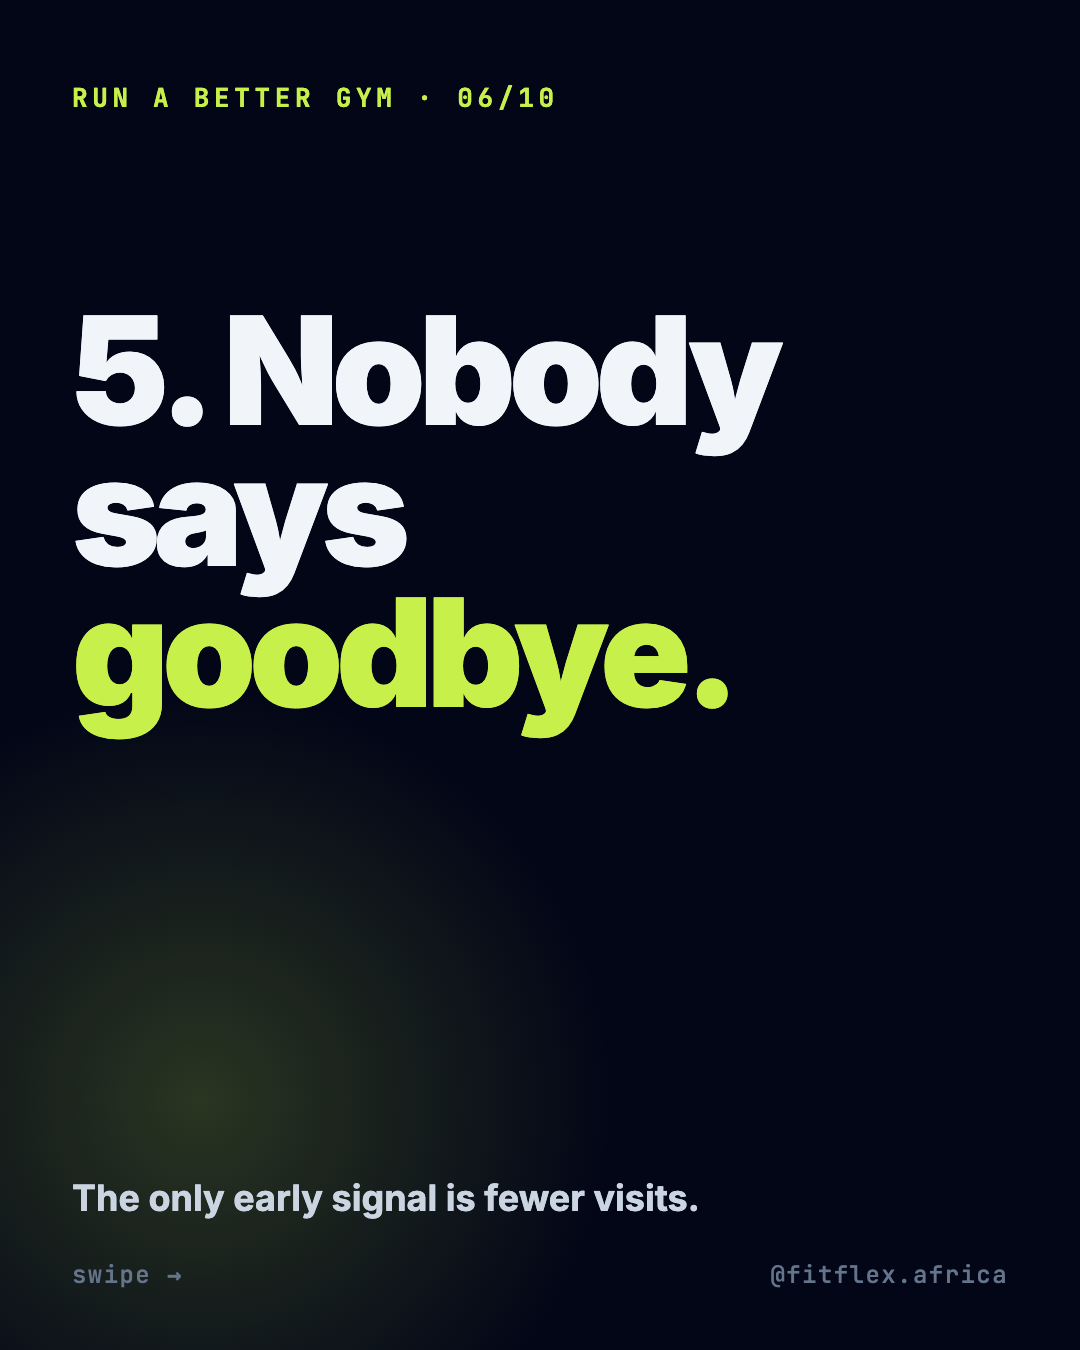
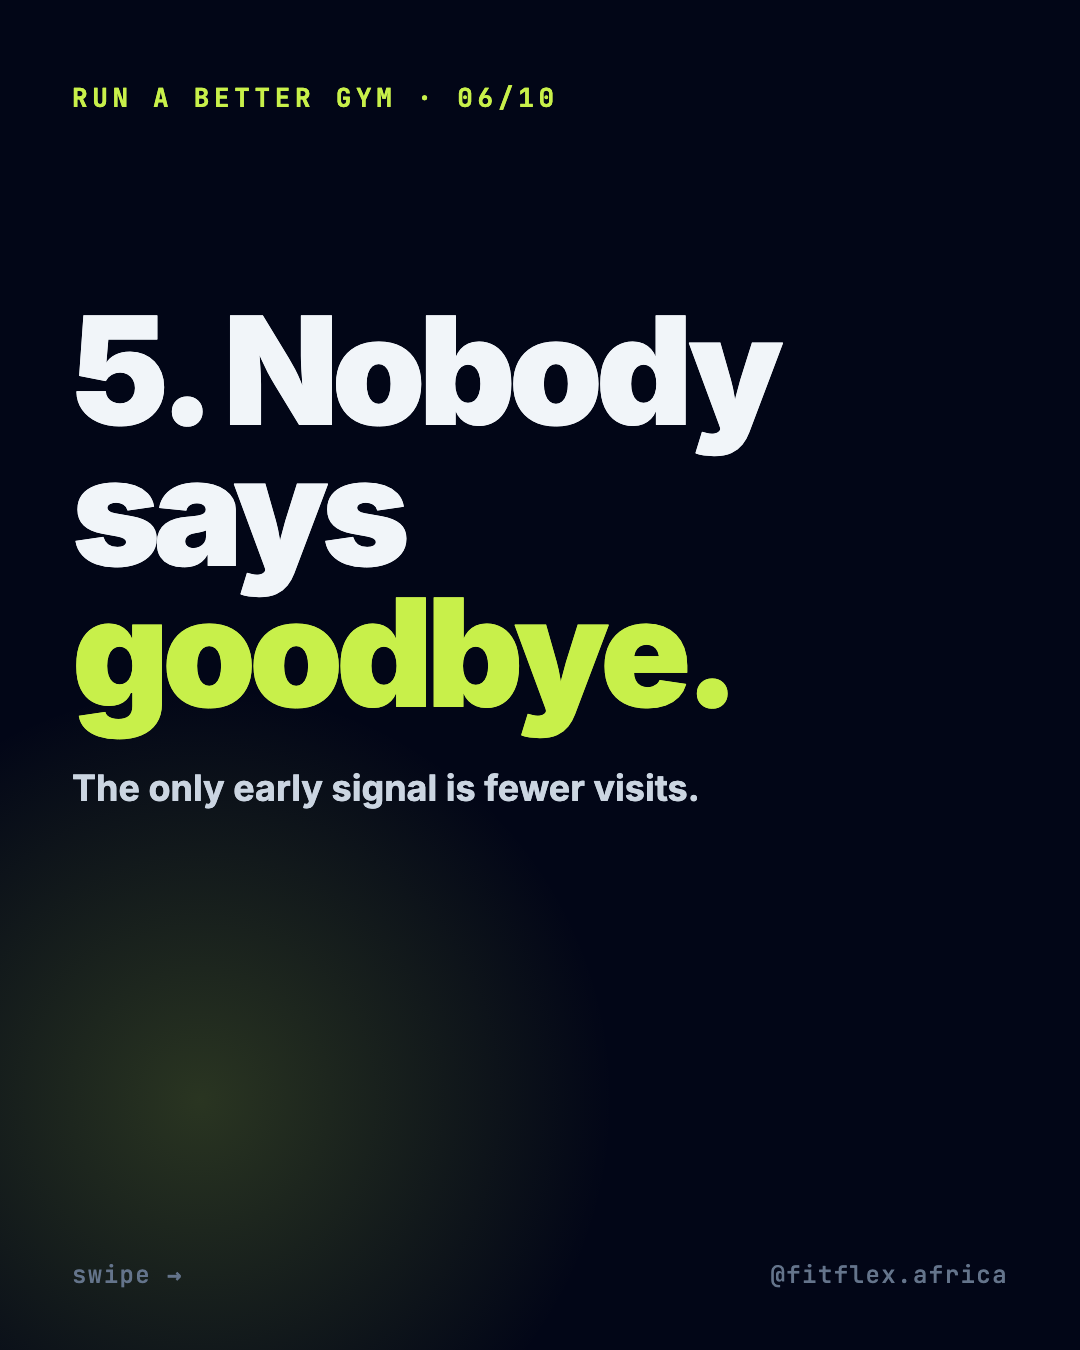
feat(social): v2 type slides keep the sub-line under the headline (owner 2026-10-20); re-rendered

Changed region(s): [[0.0611, 0.56, 0.6417, 0.6222], [0.0611, 0.8711, 0.6417, 0.9022]]

diff --git a/social/tools/render-carousel.js b/social/tools/render-carousel.js
@@ -130,7 +130,8 @@ function htmlV2(i, sl) {
   else if (kind === 'list') { const tone = t => t === 'volt' ? V2.volt : t === 'fuel' ? V2.fuel : '#334155'; const rows = (sl.rows || []).map(r => `<div class="row"><div class="bar" style="background:${tone(r.tone)}"></div><div class="t" style="color:${r.tone === 'fuel' ? V2.fuel : r.tone === 'muted' ? V2.body : V2.ink}">${r.t}</div>${r.tag ? `<div class="tag">${r.tag}</div>` : ''}</div>`).join('');
     body = `<div class="glow" style="top:-500px;left:400px"></div><div class="eyebrow">${eyebrow}</div>${logo}<h1 style="position:absolute;left:72px;right:72px;top:170px;font-size:${Math.min(hsize, 100)}px">${sl.h}</h1><div style="position:absolute;left:72px;right:72px;top:${sl.top || 540}px">${rows}</div>${sl.note ? `<div class="foot">${sl.note}</div>` : ''}`; }
   else if (kind === 'cta') body = `<div class="glow" style="top:300px;left:100px"></div><div class="eyebrow">${eyebrow}</div>${logo}<div style="position:absolute;left:72px;right:72px;top:300px;font-size:64px;font-weight:800;color:${V2.body};letter-spacing:-2px;line-height:1.1">${sl.h}<br>Comment</div><div style="position:absolute;left:60px;right:40px;top:540px;font-weight:900;font-size:${sl.kwSize || 210}px;letter-spacing:-.05em;color:${V2.volt};line-height:1">${sl.kw}</div><div class="sub" style="position:absolute;left:72px;right:72px;bottom:200px;color:${V2.ink}">${sl.cta || ''}</div>`;
-  else body = `<div class="glow" style="top:650px;left:-250px"></div><div class="eyebrow">${eyebrow}</div>${logo}<h1 style="position:absolute;left:72px;right:72px;top:300px;font-size:${hsize}px">${sl.h}</h1>${sl.s ? `<div class="sub" style="position:absolute;left:72px;right:72px;bottom:130px;max-width:820px">${sl.s}</div>` : ''}`;
+  // type-only slides: the sub sits directly under the headline (owner 2026-10-20), not at the foot of the slide
+  else body = `<div class="glow" style="top:650px;left:-250px"></div><div class="eyebrow">${eyebrow}</div>${logo}<div style="position:absolute;left:72px;right:72px;top:300px"><h1 style="font-size:${hsize}px">${sl.h}</h1>${sl.s ? `<div class="sub" style="margin-top:44px;max-width:860px">${sl.s}</div>` : ''}</div>`;
   const swipe = i < n - 1 ? `<div style="position:absolute;bottom:60px;left:72px;font-family:Mono;font-weight:500;font-size:24px;letter-spacing:.06em;color:${V2.quiet}">swipe →</div>` : '';
   return head + body + swipe + `<div class="handle">${handle}</div></body></html>`;
 }

diff --git a/social/content/2026-10-W5-A-owners/source/E05.html b/social/content/2026-10-W5-A-owners/source/E05.html
@@ -12,4 +12,4 @@
  .glow{position:absolute;width:900px;height:900px;border-radius:50%;background:radial-gradient(circle,rgba(200,240,74,.2),rgba(200,240,74,0) 65%)}
  .row{display:flex;align-items:center;gap:28px;padding:28px 0;border-bottom:2px solid #1E293B}.row .bar{width:14px;height:64px;border-radius:7px}.row .t{font-weight:900;font-size:70px;letter-spacing:-2px}.row .tag{margin-left:auto;font-family:Mono;font-size:22px;letter-spacing:.1em;color:#64748B;text-transform:uppercase}
  .foot{position:absolute;left:72px;bottom:112px;font-family:Mono;font-size:22px;letter-spacing:.1em;color:#64748B;text-transform:uppercase}
- </style></head><body><div class="glow" style="top:650px;left:-250px"></div><div class="eyebrow">Run a better gym · 05/10</div><h1 style="position:absolute;left:72px;right:72px;top:300px;font-size:128px">4. Your front door is a <em>phone screen.</em></h1><div class="sub" style="position:absolute;left:72px;right:72px;bottom:130px;max-width:820px">Find the gym, check in with a QR, book a trainer. If it’s slow, they feel it before you do.</div><div style="position:absolute;bottom:60px;left:72px;font-family:Mono;font-weight:500;font-size:24px;letter-spacing:.06em;color:#64748B">swipe →</div><div class="handle">@fitflex.africa</div></body></html>
+ </style></head><body><div class="glow" style="top:650px;left:-250px"></div><div class="eyebrow">Run a better gym · 05/10</div><div style="position:absolute;left:72px;right:72px;top:300px"><h1 style="font-size:128px">4. Your front door is a <em>phone screen.</em></h1><div class="sub" style="margin-top:44px;max-width:860px">Find the gym, check in with a QR, book a trainer. If it’s slow, they feel it before you do.</div></div><div style="position:absolute;bottom:60px;left:72px;font-family:Mono;font-weight:500;font-size:24px;letter-spacing:.06em;color:#64748B">swipe →</div><div class="handle">@fitflex.africa</div></body></html>

diff --git a/social/content/2026-10-W5-A-owners/source/E07.html b/social/content/2026-10-W5-A-owners/source/E07.html
@@ -12,4 +12,4 @@
  .glow{position:absolute;width:900px;height:900px;border-radius:50%;background:radial-gradient(circle,rgba(200,240,74,.2),rgba(200,240,74,0) 65%)}
  .row{display:flex;align-items:center;gap:28px;padding:28px 0;border-bottom:2px solid #1E293B}.row .bar{width:14px;height:64px;border-radius:7px}.row .t{font-weight:900;font-size:70px;letter-spacing:-2px}.row .tag{margin-left:auto;font-family:Mono;font-size:22px;letter-spacing:.1em;color:#64748B;text-transform:uppercase}
  .foot{position:absolute;left:72px;bottom:112px;font-family:Mono;font-size:22px;letter-spacing:.1em;color:#64748B;text-transform:uppercase}
- </style></head><body><div class="glow" style="top:650px;left:-250px"></div><div class="eyebrow">Run a better gym · 07/10</div><h1 style="position:absolute;left:72px;right:72px;top:300px;font-size:92px">6. Would your members stay if a cheaper gym opened <em>next door?</em></h1><div class="sub" style="position:absolute;left:72px;right:72px;bottom:130px;max-width:820px">If the honest answer is “the ones who feel at home”, protect that.</div><div style="position:absolute;bottom:60px;left:72px;font-family:Mono;font-weight:500;font-size:24px;letter-spacing:.06em;color:#64748B">swipe →</div><div class="handle">@fitflex.africa</div></body></html>
+ </style></head><body><div class="glow" style="top:650px;left:-250px"></div><div class="eyebrow">Run a better gym · 07/10</div><div style="position:absolute;left:72px;right:72px;top:300px"><h1 style="font-size:92px">6. Would your members stay if a cheaper gym opened <em>next door?</em></h1><div class="sub" style="margin-top:44px;max-width:860px">If the honest answer is “the ones who feel at home”, protect that.</div></div><div style="position:absolute;bottom:60px;left:72px;font-family:Mono;font-weight:500;font-size:24px;letter-spacing:.06em;color:#64748B">swipe →</div><div class="handle">@fitflex.africa</div></body></html>

diff --git a/social/content/2026-10-W5-A-owners/source/E02.html b/social/content/2026-10-W5-A-owners/source/E02.html
@@ -12,4 +12,4 @@
  .glow{position:absolute;width:900px;height:900px;border-radius:50%;background:radial-gradient(circle,rgba(200,240,74,.2),rgba(200,240,74,0) 65%)}
  .row{display:flex;align-items:center;gap:28px;padding:28px 0;border-bottom:2px solid #1E293B}.row .bar{width:14px;height:64px;border-radius:7px}.row .t{font-weight:900;font-size:70px;letter-spacing:-2px}.row .tag{margin-left:auto;font-family:Mono;font-size:22px;letter-spacing:.1em;color:#64748B;text-transform:uppercase}
  .foot{position:absolute;left:72px;bottom:112px;font-family:Mono;font-size:22px;letter-spacing:.1em;color:#64748B;text-transform:uppercase}
- </style></head><body><div class="glow" style="top:650px;left:-250px"></div><div class="eyebrow">Run a better gym · 02/10</div><h1 style="position:absolute;left:72px;right:72px;top:300px;font-size:128px">1. Visits are the number, not <em>sign-ups.</em></h1><div class="sub" style="position:absolute;left:72px;right:72px;bottom:130px;max-width:820px">A member who joined and stopped coming is a cancellation you haven’t seen yet.</div><div style="position:absolute;bottom:60px;left:72px;font-family:Mono;font-weight:500;font-size:24px;letter-spacing:.06em;color:#64748B">swipe →</div><div class="handle">@fitflex.africa</div></body></html>
+ </style></head><body><div class="glow" style="top:650px;left:-250px"></div><div class="eyebrow">Run a better gym · 02/10</div><div style="position:absolute;left:72px;right:72px;top:300px"><h1 style="font-size:128px">1. Visits are the number, not <em>sign-ups.</em></h1><div class="sub" style="margin-top:44px;max-width:860px">A member who joined and stopped coming is a cancellation you haven’t seen yet.</div></div><div style="position:absolute;bottom:60px;left:72px;font-family:Mono;font-weight:500;font-size:24px;letter-spacing:.06em;color:#64748B">swipe →</div><div class="handle">@fitflex.africa</div></body></html>

diff --git a/social/content/2026-10-W5-A-owners/source/E03.html b/social/content/2026-10-W5-A-owners/source/E03.html
@@ -12,4 +12,4 @@
  .glow{position:absolute;width:900px;height:900px;border-radius:50%;background:radial-gradient(circle,rgba(200,240,74,.2),rgba(200,240,74,0) 65%)}
  .row{display:flex;align-items:center;gap:28px;padding:28px 0;border-bottom:2px solid #1E293B}.row .bar{width:14px;height:64px;border-radius:7px}.row .t{font-weight:900;font-size:70px;letter-spacing:-2px}.row .tag{margin-left:auto;font-family:Mono;font-size:22px;letter-spacing:.1em;color:#64748B;text-transform:uppercase}
  .foot{position:absolute;left:72px;bottom:112px;font-family:Mono;font-size:22px;letter-spacing:.1em;color:#64748B;text-transform:uppercase}
- </style></head><body><div class="glow" style="top:650px;left:-250px"></div><div class="eyebrow">Run a better gym · 03/10</div><h1 style="position:absolute;left:72px;right:72px;top:300px;font-size:128px">2. Is the notebook the <em>problem?</em></h1><div class="sub" style="position:absolute;left:72px;right:72px;bottom:130px;max-width:820px">If your gym runs on WhatsApp, a notebook and cash, nobody can see who’s slipping.</div><div style="position:absolute;bottom:60px;left:72px;font-family:Mono;font-weight:500;font-size:24px;letter-spacing:.06em;color:#64748B">swipe →</div><div class="handle">@fitflex.africa</div></body></html>
+ </style></head><body><div class="glow" style="top:650px;left:-250px"></div><div class="eyebrow">Run a better gym · 03/10</div><div style="position:absolute;left:72px;right:72px;top:300px"><h1 style="font-size:128px">2. Is the notebook the <em>problem?</em></h1><div class="sub" style="margin-top:44px;max-width:860px">If your gym runs on WhatsApp, a notebook and cash, nobody can see who’s slipping.</div></div><div style="position:absolute;bottom:60px;left:72px;font-family:Mono;font-weight:500;font-size:24px;letter-spacing:.06em;color:#64748B">swipe →</div><div class="handle">@fitflex.africa</div></body></html>

diff --git a/social/content/2026-10-W5-A-owners/source/E08.html b/social/content/2026-10-W5-A-owners/source/E08.html
@@ -12,4 +12,4 @@
  .glow{position:absolute;width:900px;height:900px;border-radius:50%;background:radial-gradient(circle,rgba(200,240,74,.2),rgba(200,240,74,0) 65%)}
  .row{display:flex;align-items:center;gap:28px;padding:28px 0;border-bottom:2px solid #1E293B}.row .bar{width:14px;height:64px;border-radius:7px}.row .t{font-weight:900;font-size:70px;letter-spacing:-2px}.row .tag{margin-left:auto;font-family:Mono;font-size:22px;letter-spacing:.1em;color:#64748B;text-transform:uppercase}
  .foot{position:absolute;left:72px;bottom:112px;font-family:Mono;font-size:22px;letter-spacing:.1em;color:#64748B;text-transform:uppercase}
- </style></head><body><div class="glow" style="top:650px;left:-250px"></div><div class="eyebrow">Run a better gym · 08/10</div><h1 style="position:absolute;left:72px;right:72px;top:300px;font-size:108px">7. Trainers want bookings and payment in <em>one place.</em></h1><div class="sub" style="position:absolute;left:72px;right:72px;bottom:130px;max-width:820px">Give them that and you give them a reason to stay.</div><div style="position:absolute;bottom:60px;left:72px;font-family:Mono;font-weight:500;font-size:24px;letter-spacing:.06em;color:#64748B">swipe →</div><div class="handle">@fitflex.africa</div></body></html>
+ </style></head><body><div class="glow" style="top:650px;left:-250px"></div><div class="eyebrow">Run a better gym · 08/10</div><div style="position:absolute;left:72px;right:72px;top:300px"><h1 style="font-size:108px">7. Trainers want bookings and payment in <em>one place.</em></h1><div class="sub" style="margin-top:44px;max-width:860px">Give them that and you give them a reason to stay.</div></div><div style="position:absolute;bottom:60px;left:72px;font-family:Mono;font-weight:500;font-size:24px;letter-spacing:.06em;color:#64748B">swipe →</div><div class="handle">@fitflex.africa</div></body></html>

diff --git a/social/content/2026-10-W1-B-trainers/source/B03.html b/social/content/2026-10-W1-B-trainers/source/B03.html
@@ -12,4 +12,4 @@
  .glow{position:absolute;width:900px;height:900px;border-radius:50%;background:radial-gradient(circle,rgba(200,240,74,.2),rgba(200,240,74,0) 65%)}
  .row{display:flex;align-items:center;gap:28px;padding:28px 0;border-bottom:2px solid #1E293B}.row .bar{width:14px;height:64px;border-radius:7px}.row .t{font-weight:900;font-size:70px;letter-spacing:-2px}.row .tag{margin-left:auto;font-family:Mono;font-size:22px;letter-spacing:.1em;color:#64748B;text-transform:uppercase}
  .foot{position:absolute;left:72px;bottom:112px;font-family:Mono;font-size:22px;letter-spacing:.1em;color:#64748B;text-transform:uppercase}
- </style></head><body><div class="glow" style="top:650px;left:-250px"></div><div class="eyebrow">Grow your business · 03/08</div><h1 style="position:absolute;left:72px;right:72px;top:300px;font-size:128px">“Personal trainer” says <em>nothing.</em></h1><div class="sub" style="position:absolute;left:72px;right:72px;bottom:130px;max-width:820px">Say who you help, and with what.</div><div style="position:absolute;bottom:60px;left:72px;font-family:Mono;font-weight:500;font-size:24px;letter-spacing:.06em;color:#64748B">swipe →</div><div class="handle">@fitflex.africa</div></body></html>
+ </style></head><body><div class="glow" style="top:650px;left:-250px"></div><div class="eyebrow">Grow your business · 03/08</div><div style="position:absolute;left:72px;right:72px;top:300px"><h1 style="font-size:128px">“Personal trainer” says <em>nothing.</em></h1><div class="sub" style="margin-top:44px;max-width:860px">Say who you help, and with what.</div></div><div style="position:absolute;bottom:60px;left:72px;font-family:Mono;font-weight:500;font-size:24px;letter-spacing:.06em;color:#64748B">swipe →</div><div class="handle">@fitflex.africa</div></body></html>

diff --git a/social/content/2026-10-W5-A-owners/source/E06.html b/social/content/2026-10-W5-A-owners/source/E06.html
@@ -12,4 +12,4 @@
  .glow{position:absolute;width:900px;height:900px;border-radius:50%;background:radial-gradient(circle,rgba(200,240,74,.2),rgba(200,240,74,0) 65%)}
  .row{display:flex;align-items:center;gap:28px;padding:28px 0;border-bottom:2px solid #1E293B}.row .bar{width:14px;height:64px;border-radius:7px}.row .t{font-weight:900;font-size:70px;letter-spacing:-2px}.row .tag{margin-left:auto;font-family:Mono;font-size:22px;letter-spacing:.1em;color:#64748B;text-transform:uppercase}
  .foot{position:absolute;left:72px;bottom:112px;font-family:Mono;font-size:22px;letter-spacing:.1em;color:#64748B;text-transform:uppercase}
- </style></head><body><div class="glow" style="top:650px;left:-250px"></div><div class="eyebrow">Run a better gym · 06/10</div><h1 style="position:absolute;left:72px;right:72px;top:300px;font-size:150px">5. Nobody says <em>goodbye.</em></h1><div class="sub" style="position:absolute;left:72px;right:72px;bottom:130px;max-width:820px">The only early signal is fewer visits.</div><div style="position:absolute;bottom:60px;left:72px;font-family:Mono;font-weight:500;font-size:24px;letter-spacing:.06em;color:#64748B">swipe →</div><div class="handle">@fitflex.africa</div></body></html>
+ </style></head><body><div class="glow" style="top:650px;left:-250px"></div><div class="eyebrow">Run a better gym · 06/10</div><div style="position:absolute;left:72px;right:72px;top:300px"><h1 style="font-size:150px">5. Nobody says <em>goodbye.</em></h1><div class="sub" style="margin-top:44px;max-width:860px">The only early signal is fewer visits.</div></div><div style="position:absolute;bottom:60px;left:72px;font-family:Mono;font-weight:500;font-size:24px;letter-spacing:.06em;color:#64748B">swipe →</div><div class="handle">@fitflex.africa</div></body></html>

diff --git a/social/content/2026-10-W1-B-trainers/source/B06.html b/social/content/2026-10-W1-B-trainers/source/B06.html
@@ -12,4 +12,4 @@
  .glow{position:absolute;width:900px;height:900px;border-radius:50%;background:radial-gradient(circle,rgba(200,240,74,.2),rgba(200,240,74,0) 65%)}
  .row{display:flex;align-items:center;gap:28px;padding:28px 0;border-bottom:2px solid #1E293B}.row .bar{width:14px;height:64px;border-radius:7px}.row .t{font-weight:900;font-size:70px;letter-spacing:-2px}.row .tag{margin-left:auto;font-family:Mono;font-size:22px;letter-spacing:.1em;color:#64748B;text-transform:uppercase}
  .foot{position:absolute;left:72px;bottom:112px;font-family:Mono;font-size:22px;letter-spacing:.1em;color:#64748B;text-transform:uppercase}
- </style></head><body><div class="glow" style="top:650px;left:-250px"></div><div class="eyebrow">Grow your business · 06/08</div><h1 style="position:absolute;left:72px;right:72px;top:300px;font-size:150px">Fix all <em>three.</em></h1><div class="sub" style="position:absolute;left:72px;right:72px;bottom:130px;max-width:820px">Clear offer. Visible proof. Easy booking.</div><div style="position:absolute;bottom:60px;left:72px;font-family:Mono;font-weight:500;font-size:24px;letter-spacing:.06em;color:#64748B">swipe →</div><div class="handle">@fitflex.africa</div></body></html>
+ </style></head><body><div class="glow" style="top:650px;left:-250px"></div><div class="eyebrow">Grow your business · 06/08</div><div style="position:absolute;left:72px;right:72px;top:300px"><h1 style="font-size:150px">Fix all <em>three.</em></h1><div class="sub" style="margin-top:44px;max-width:860px">Clear offer. Visible proof. Easy booking.</div></div><div style="position:absolute;bottom:60px;left:72px;font-family:Mono;font-weight:500;font-size:24px;letter-spacing:.06em;color:#64748B">swipe →</div><div class="handle">@fitflex.africa</div></body></html>

diff --git a/social/content/2026-10-W1-A-owners/source/A02.html b/social/content/2026-10-W1-A-owners/source/A02.html
@@ -12,4 +12,4 @@
  .glow{position:absolute;width:900px;height:900px;border-radius:50%;background:radial-gradient(circle,rgba(200,240,74,.2),rgba(200,240,74,0) 65%)}
  .row{display:flex;align-items:center;gap:28px;padding:28px 0;border-bottom:2px solid #1E293B}.row .bar{width:14px;height:64px;border-radius:7px}.row .t{font-weight:900;font-size:70px;letter-spacing:-2px}.row .tag{margin-left:auto;font-family:Mono;font-size:22px;letter-spacing:.1em;color:#64748B;text-transform:uppercase}
  .foot{position:absolute;left:72px;bottom:112px;font-family:Mono;font-size:22px;letter-spacing:.1em;color:#64748B;text-transform:uppercase}
- </style></head><body><div class="glow" style="top:650px;left:-250px"></div><div class="eyebrow">Run a better gym · 02/08</div><h1 style="position:absolute;left:72px;right:72px;top:300px;font-size:128px">Sign-ups tell you who <em>joined.</em></h1><div class="sub" style="position:absolute;left:72px;right:72px;bottom:130px;max-width:820px">Visits tell you who stayed.</div><div style="position:absolute;bottom:60px;left:72px;font-family:Mono;font-weight:500;font-size:24px;letter-spacing:.06em;color:#64748B">swipe →</div><div class="handle">@fitflex.africa</div></body></html>
+ </style></head><body><div class="glow" style="top:650px;left:-250px"></div><div class="eyebrow">Run a better gym · 02/08</div><div style="position:absolute;left:72px;right:72px;top:300px"><h1 style="font-size:128px">Sign-ups tell you who <em>joined.</em></h1><div class="sub" style="margin-top:44px;max-width:860px">Visits tell you who stayed.</div></div><div style="position:absolute;bottom:60px;left:72px;font-family:Mono;font-weight:500;font-size:24px;letter-spacing:.06em;color:#64748B">swipe →</div><div class="handle">@fitflex.africa</div></body></html>

diff --git a/social/content/2026-10-W1-A-owners/source/A06.html b/social/content/2026-10-W1-A-owners/source/A06.html
@@ -12,4 +12,4 @@
  .glow{position:absolute;width:900px;height:900px;border-radius:50%;background:radial-gradient(circle,rgba(200,240,74,.2),rgba(200,240,74,0) 65%)}
  .row{display:flex;align-items:center;gap:28px;padding:28px 0;border-bottom:2px solid #1E293B}.row .bar{width:14px;height:64px;border-radius:7px}.row .t{font-weight:900;font-size:70px;letter-spacing:-2px}.row .tag{margin-left:auto;font-family:Mono;font-size:22px;letter-spacing:.1em;color:#64748B;text-transform:uppercase}
  .foot{position:absolute;left:72px;bottom:112px;font-family:Mono;font-size:22px;letter-spacing:.1em;color:#64748B;text-transform:uppercase}
- </style></head><body><div class="glow" style="top:650px;left:-250px"></div><div class="eyebrow">Run a better gym · 06/08</div><h1 style="position:absolute;left:72px;right:72px;top:300px;font-size:92px">A dashboard shows check-ins, visit trends and who <em>stopped coming.</em></h1><div style="position:absolute;bottom:60px;left:72px;font-family:Mono;font-weight:500;font-size:24px;letter-spacing:.06em;color:#64748B">swipe →</div><div class="handle">@fitflex.africa</div></body></html>
+ </style></head><body><div class="glow" style="top:650px;left:-250px"></div><div class="eyebrow">Run a better gym · 06/08</div><div style="position:absolute;left:72px;right:72px;top:300px"><h1 style="font-size:92px">A dashboard shows check-ins, visit trends and who <em>stopped coming.</em></h1></div><div style="position:absolute;bottom:60px;left:72px;font-family:Mono;font-weight:500;font-size:24px;letter-spacing:.06em;color:#64748B">swipe →</div><div class="handle">@fitflex.africa</div></body></html>

diff --git a/social/content/2026-10-W1-A-owners/source/A04.html b/social/content/2026-10-W1-A-owners/source/A04.html
@@ -12,4 +12,4 @@
  .glow{position:absolute;width:900px;height:900px;border-radius:50%;background:radial-gradient(circle,rgba(200,240,74,.2),rgba(200,240,74,0) 65%)}
  .row{display:flex;align-items:center;gap:28px;padding:28px 0;border-bottom:2px solid #1E293B}.row .bar{width:14px;height:64px;border-radius:7px}.row .t{font-weight:900;font-size:70px;letter-spacing:-2px}.row .tag{margin-left:auto;font-family:Mono;font-size:22px;letter-spacing:.1em;color:#64748B;text-transform:uppercase}
  .foot{position:absolute;left:72px;bottom:112px;font-family:Mono;font-size:22px;letter-spacing:.1em;color:#64748B;text-transform:uppercase}
- </style></head><body><div class="glow" style="top:650px;left:-250px"></div><div class="eyebrow">Run a better gym · 04/08</div><h1 style="position:absolute;left:72px;right:72px;top:300px;font-size:108px">Can’t see visits? You can’t see who’s <em>leaving.</em></h1><div style="position:absolute;bottom:60px;left:72px;font-family:Mono;font-weight:500;font-size:24px;letter-spacing:.06em;color:#64748B">swipe →</div><div class="handle">@fitflex.africa</div></body></html>
+ </style></head><body><div class="glow" style="top:650px;left:-250px"></div><div class="eyebrow">Run a better gym · 04/08</div><div style="position:absolute;left:72px;right:72px;top:300px"><h1 style="font-size:108px">Can’t see visits? You can’t see who’s <em>leaving.</em></h1></div><div style="position:absolute;bottom:60px;left:72px;font-family:Mono;font-weight:500;font-size:24px;letter-spacing:.06em;color:#64748B">swipe →</div><div class="handle">@fitflex.africa</div></body></html>
